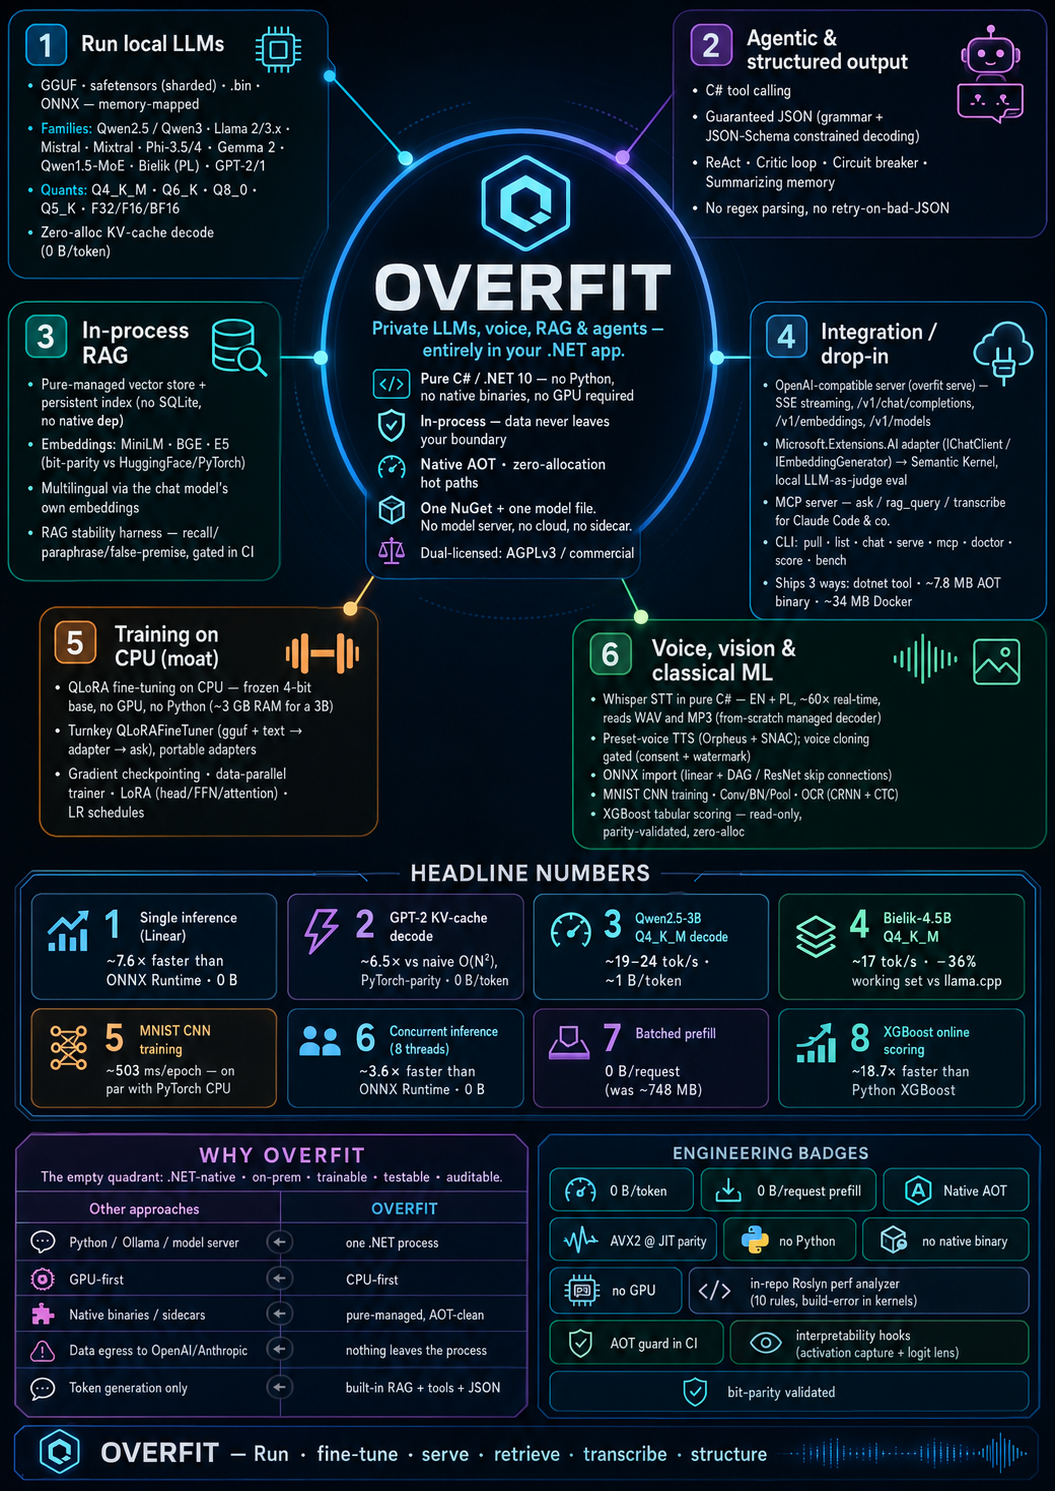
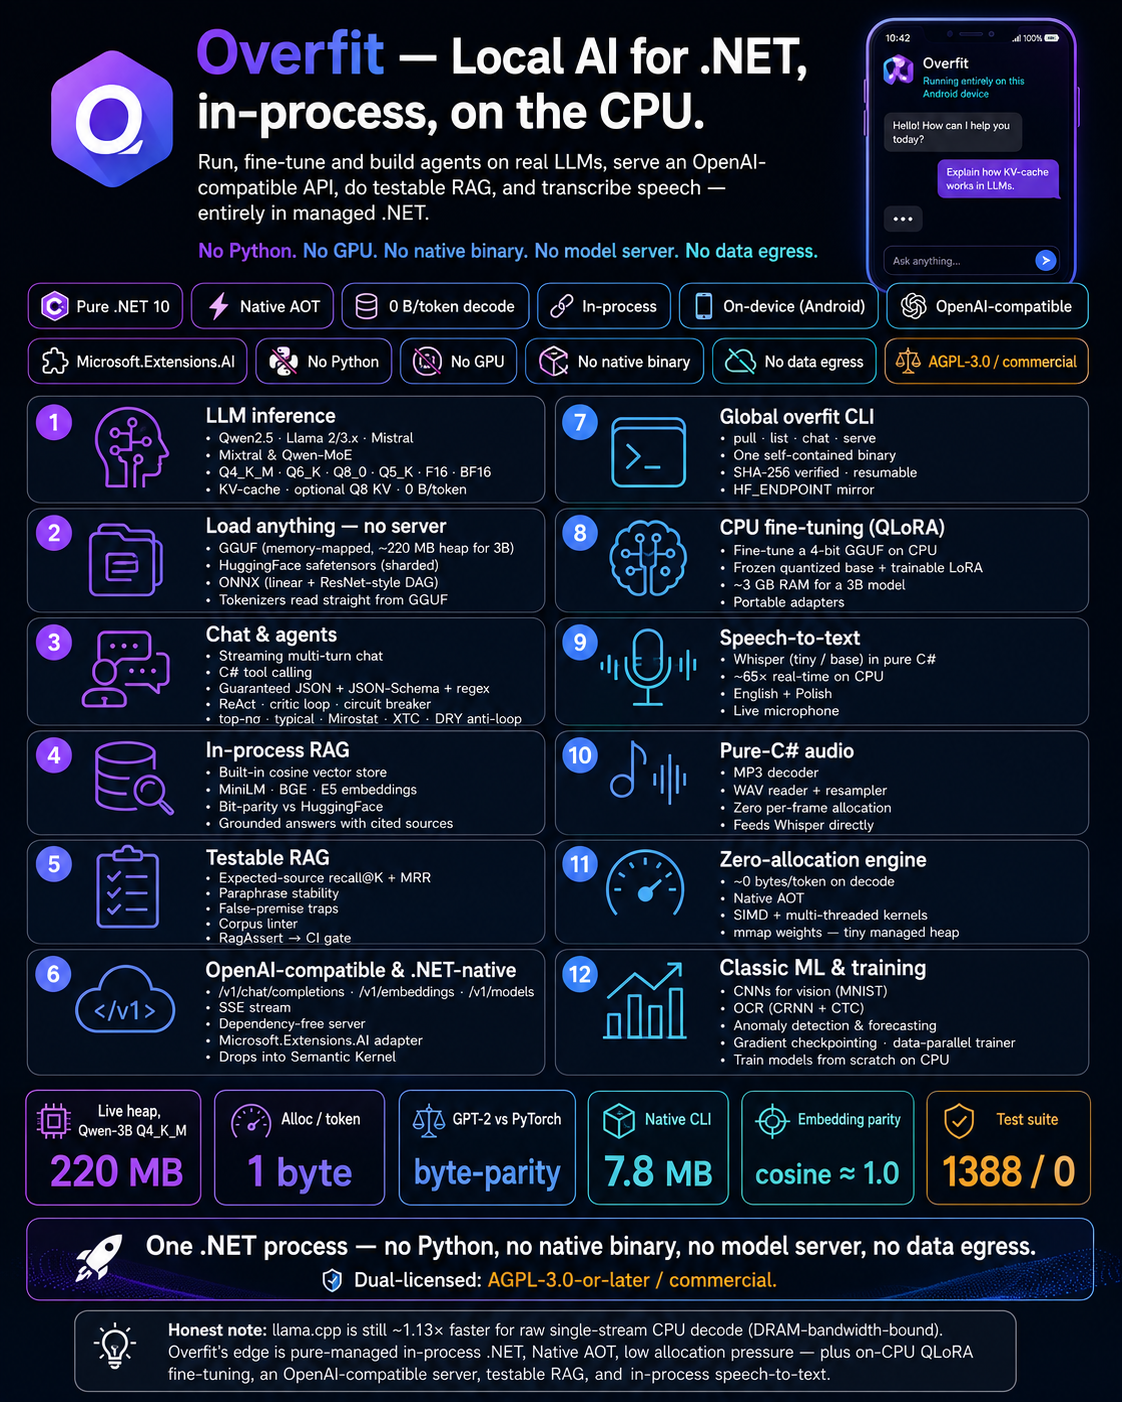
skill

diff --git a/Sources/Main/Data/Contracts/TrainingDataReport.cs b/Sources/Main/Data/Contracts/TrainingDataReport.cs
@@ -56,7 +56,7 @@ namespace DevOnBike.Overfit.Data.Contracts
             get
             {
                 var count = 0;
-                
+
                 foreach (var f in FeatureReports)
                 {
                     if (f.IsConstant)
@@ -64,7 +64,7 @@ namespace DevOnBike.Overfit.Data.Contracts
                         count++;
                     }
                 }
-                
+
                 return count;
             }
         }
@@ -75,12 +75,12 @@ namespace DevOnBike.Overfit.Data.Contracts
             get
             {
                 var total = 0;
-                
+
                 foreach (var f in FeatureReports)
                 {
                     total += f.NonFiniteCount;
                 }
-                
+
                 return total;
             }
         }

diff --git a/CHANGELOG.md b/CHANGELOG.md
@@ -14,9 +14,33 @@ The format is based on [Keep a Changelog](https://keepachangelog.com/en/1.1.0/),
 
 Pre-release suffixes (e.g. `10.1.0-beta.1`) are used for surface changes that need real-world validation before the public release. Pre-releases are pushed to NuGet with the `-beta`, `-rc`, or `-preview` SemVer suffix.
 
-## [Unreleased]
+## [10.0.29] - 2026-07-05
 
-_(nothing yet)_
+_The `frodo` branch: an on-device Android chat app, an advanced sampler suite, offline prefill acceleration, a local skill-eval harness, and CI-guard hardening._
+
+### Added
+
+- **OverThink — an on-device Android chat app** (`Demo/OverfitChatApp`). A native .NET-for-Android build runs a GGUF model **entirely on the phone**: streaming tokens, an animated mesh-gradient UI, a GGUF file-picker, a ⚙ "Response style" preset dialog (Precise / Balanced / Creative, each with the DRY anti-loop on), and a 30 s idle model-unload. Fully offline — nothing leaves the device. ~3.8 tok/s for a 0.5B Q4_K on a mid-range phone. The on-device decode work is documented as an honest negative in `Demo/OverfitChatApp/README.md`: Mono's ARM runtime has no SIMD intrinsics, so decode is **dequant-bound, not dot-bound** — a correct (QEMU + self-test-validated) NEON SDOT kernel does *not* move tok/s, AOT buys ~20%, and the remaining gap to llama.cpp is the managed-mobile tax, not a missing kernel.
+- **Full sampler suite** (`SamplingPipeline`, composable/opt-in): **top-nσ** (scale-adaptive `max − n·σ` logit truncation), **locally-typical** (entropy-matched surprise), **XTC** (exclude-top-choices), **Mirostat v1/v2** (stateful μ feedback), and **DRY** (Don't-Repeat-Yourself, Z-algorithm over the recent window). `top-nσ` and `locally-typical` are also on the zero-alloc `TokenSampler` / `SamplingOptions` hot path (`WithTopNSigma`, `WithTypicalP`) and the `overfit chat` CLI (`--top-n-sigma`, `--typical-p`). **DRY is wired into the decode engine** (`CachedLlamaSession`) with a rolling generated-token history + reusable Z-scratch (zero per-token allocation): it penalises would-be verbatim repetitions on the logits **before** sampling, so it breaks generation loops **even under greedy decode** — the single biggest output-quality lever for the small models that run on-device. Gates: `SamplerSuiteTests`, `TokenSamplerTruncatorTests`.
+- **`overfit repack`** — offline Q4_K weight-repack CLI (see Performance).
+- **Local skill-eval harness** (`Sources/Main/LanguageModels/Skills/Evaluation/`) — `SkillEvaluator` + `OverfitSkillRunner` run an agent skill/prompt **ON vs OFF** on a local model (deterministic greedy/seed, zero API cost), graded by a `CheckRegistry` of model-free predicates plus a schema-locked `RubricGrader`, and reported as pass-rate + ON/OFF **lift** + trigger accuracy — a reproducible prompt-regression gate. A first `SkillOptimizer` selects prompt variants on that score. Docs: `docs/skill-eval.md`.
+- **Adam checkpoint/restore** (`AdamCheckpointTests`) — moment (m/v) state save + resume for interrupted CPU fine-tunes.
+- **Whisper long-audio windowing** (`WhisperTrimWindowTests`) — trim-window handling past the 30 s encoder frame.
+
+### Performance
+
+- **Offline Q4_K prefill repack (`overfit repack`) → ~1.6× faster time-to-first-token at zero extra RAM.** A register-tiled Q4_K prefill GEMM (`Q4KGemvKernel.GemmTiled`, tinyBLAS-style `block_q4_Kx8`, AVX2/FMA) decodes each super-block once and reuses it across a tile of columns — measured **2.76× single-thread / 3.80× parallel** on the projection GEMM and **~1.61× end-to-end prefill** (Amdahl-capped: it accelerates the Q4_K FFN only; decode stays on the DRAM-bound weight-stationary path). `overfit repack <model.gguf>` writes a `<model>.repack` sidecar in the tiled layout; the loader memory-maps it and enables the tiled path **by default at zero heap cost**. The sidecar bytes are byte-identical to the runtime repack, so output is unchanged. ARM-safe (the tiled path is AVX2-gated; a sidecar on ARM transparently falls back). Gates: `Q4KTiledGemmParityTests`, `RepackedWeightsFileTests`, `RepackedSidecarEngineE2ETests`, `BatchedQuantProjectionTiledDispatchTests`.
+- **top-p / locally-typical sampling now partial-sorts.** The nucleus/typical set is tiny, so a size-k min-heap partial sort (O(V·log k)) replaces the full O(V·log V) vocabulary sort, with an exact full-sort fallback. On a peaked decode distribution this cut the sampler's share of a decode step from ~50–60% to a few percent (~20× on the sort itself). Exact-result and parity-pinned (`TopPTypicalPartialSortParityTests`); measured on the real model (`TypicalPRealModelDecodeTests`).
+
+### Fixed
+
+- **Native-AOT `aot-guard` CI job is green under BannedApiAnalyzers 5.6.0.** The AOT publish's blunt `TreatWarningsAsErrors=true` was promoting the project's own advisory analyzers — ~1000 `OVERFIT*` perf *suggestions* and `RS0030` on System.Text.Json's **generated** serializer context — to errors, none of them Native-AOT-safety signals. Exempted them centrally via `<WarningsNotAsErrors>` in `Directory.Build.props`, so only the framework `IL2026` / `IL3050` / `IL31xx` trim/AOT diagnostics stay fatal (which is the guard's actual purpose).
+- **`analyzer-guard` CI job is green.** An `.editorconfig` `[**/obj/**]` section had been placed mid-file, silently scoping every rule after it — CA2014, `IDISP*`, and **all** OVERFIT severities including `OVERFIT008 = error` — to `obj/` files only. `OVERFIT008` therefore fell back to a warning on real code, so the guard's deliberate-violation tripwire stopped failing the build. Moved the generated-code section to the end of `.editorconfig` so it wins RS0030 for `obj/` without hijacking the global `[*.cs]` block.
+
+### Changed
+
+- **`AotSmokeTest` moved from `Sources/` to `Tests/AotSmokeTest`** — it is a Native-AOT-publish CI harness, not shipped source. The xUnit `Tests` project excludes it from its compile glob; CI, the solution, and the AOT docs were updated to the new path.
+- Repo-root planning docs (`ideas.md`, `launch-copy.md`, `overfit_perf_decode_analysis.md`) moved under `docs/`.
 
 ## [10.0.25] - 2026-06-12
 

diff --git a/docs/release-infographic.md b/docs/release-infographic.md
@@ -12,13 +12,14 @@ scannable bullets), a proof-numbers strip, the footer line, and an image-generat
 
 Run, fine-tune and build agents on real LLMs, serve an OpenAI-compatible API, do testable RAG, and
 transcribe speech — entirely in managed .NET. No Python. No GPU. No native binary. No model server.
-No data egress.
+No data egress. The same engine runs a chat model **entirely on an Android phone** — everyone else
+reaches for a bigger GPU; Overfit goes the other way.
 
 ## Badges
 
-`Pure .NET 10` · `Native AOT` · `0 B/token decode` · `In-process` · `OpenAI-compatible` ·
-`Microsoft.Extensions.AI` · `No Python` · `No GPU` · `No native binary` · `No data egress` ·
-`AGPL-3.0 / commercial`
+`Pure .NET 10` · `Native AOT` · `0 B/token decode` · `In-process` · `On-device (Android)` ·
+`OpenAI-compatible` · `Microsoft.Extensions.AI` · `No Python` · `No GPU` · `No native binary` ·
+`No data egress` · `AGPL-3.0 / commercial`
 
 ---
 
@@ -41,6 +42,7 @@ No data egress.
 - C# tool calling (constrained decoding)
 - Guaranteed JSON + **JSON-Schema** & **regex** constrained output
 - ReAct loop · critic loop · circuit breaker · summarizing memory
+- Sampler suite: top-nσ · typical · Mirostat · XTC · **DRY anti-loop**
 
 **4 · In-process RAG**
 - Built-in cosine vector store, zero-dependency
@@ -100,7 +102,7 @@ No data egress.
 
 | Live heap, Qwen-3B Q4_K_M | Alloc / token | GPT-2 vs PyTorch | Native CLI | Embedding parity | Test suite |
 |:--:|:--:|:--:|:--:|:--:|:--:|
-| **220 MB** | **1 byte** | **byte-parity** | **7.8 MB** | **cosine ≈ 1.0** | **1139 / 0** |
+| **220 MB** | **1 byte** | **byte-parity** | **7.8 MB** | **cosine ≈ 1.0** | **1388 / 0** |
 
 ## Footer
 
@@ -123,7 +125,11 @@ Dual-licensed: AGPL-3.0-or-later / commercial.
 >
 > **Top hero band:** the wordmark "Overfit" with the tagline *"Local AI for .NET — run, fine-tune, serve
 > and talk to real LLMs entirely in-process, on the CPU."* Below it a row of small pill badges: `No Python`,
-> `No GPU`, `No native binary`, `No data egress`, `OpenAI-compatible`, `Native AOT`, `0 B/token`.
+> `No GPU`, `No native binary`, `No data egress`, `On-device (Android)`, `OpenAI-compatible`, `Native AOT`, `0 B/token`.
+>
+> **Optional right-side motif:** a modern smartphone rendered in the same violet-blue line style, showing a
+> minimal chat bubble mid-stream — the "an LLM running on your phone, no cloud" idea, kept small so the card
+> grid stays the hero.
 >
 > **Center:** a 4×3 grid of twelve equal cards, each with a simple line icon and a short title:
 > 1. *LLM inference* (chip) — "Qwen · Llama · Mistral · Mixtral · MoE",

diff --git a/docs/linked-in/linkedin-overthink.md b/docs/linked-in/linkedin-overthink.md
@@ -1,0 +1,37 @@
+# LinkedIn — OverThink ("we go the other way")
+
+Short, contrarian post centered on OverThink (an LLM running on your phone). Drop-in copy.
+
+---
+
+**No cloud. No GPU. No internet. Just a language model running on your phone.**
+
+The whole industry is racing in one direction: more GPUs, more VRAM, bigger clusters, everything in the cloud.
+
+We went the other way.
+
+**OverThink** is a chat app that runs a real language model **entirely on your Android phone**. No server. No cloud. No API key. Turn on airplane mode — it still answers. Nothing you type ever leaves the device.
+
+Under the hood it's **Overfit** — our language-model engine written in **pure C# / .NET**. No Python runtime, no native binary, no model server. It memory-maps a quantized GGUF model and decodes it on the CPU with near-zero allocation — the same engine whether it's a datacenter or the phone in your pocket.
+
+Is it as fast as a datacenter GPU? Of course not — and that's not the point. The point is: your data stays yours, it works offline, and it costs nothing to run.
+
+The most private AI isn't the one with the best security policy. It's the one that physically *can't* phone home.
+
+Sometimes the interesting direction is the unfashionable one.
+
+#dotnet #csharp #ai #llm #ondevice #edgeai #privacy
+
+---
+
+## Notes / variants
+- **Viral title options** (swap the bold headline for any of these):
+  1. *No cloud. No GPU. No internet. Just a language model running on your phone.* ← current
+  2. *Everyone's buying bigger GPUs. I put a real AI on a phone — then turned the internet off.*
+  3. *I asked an AI a question with my phone in airplane mode. It answered.*
+  4. *The whole industry is renting GPUs. My AI runs on a phone with the Wi-Fi off.*
+  5. *The most private AI is the one that physically can't phone home. So I built it.*
+  6. *They said you need a datacenter to run AI. I fit one in my pocket.*
+- **Proof line to add if you want numbers:** "~0.5B params, 4-bit, streaming tokens, fully offline — pure managed .NET on the CPU."
+- **CTA options:** link the GitHub repo / a 10-second screen-recording of airplane-mode chat (the strongest asset — the plane icon in the status bar is the whole argument).
+- Pair with the `store/linkedin/02-pitch.png` About-dialog screenshot, or a short clip of tokens streaming with Wi-Fi off.

diff --git a/README.md b/README.md
@@ -577,7 +577,7 @@ for that.
 
 - **Inference** — GGUF (Q4_K_M / Q6_K / Q8_0 / Q5_0 / Q5_K / F32 / F16 / BF16, memory-mapped); Qwen2.5, Llama-2/3.x, Mistral, Mixtral & Qwen-MoE; GPT-2 / GPT-1 (byte-parity vs PyTorch). KV-cache + optional Q8 KV; ~220 MB heap / 1 B-per-token for a 3B model.
 - **Loaders** — GGUF, HuggingFace safetensors (sharded), Overfit `.bin`, ONNX (linear + DAG). 100% Python-free; tokenizers read straight from the GGUF.
-- **Agentic & structured output** — tool calling, guaranteed JSON, **JSON-Schema & regex constrained decoding**, ReAct / critic / circuit-breaker / summarizing memory, composable sampling.
+- **Agentic & structured output** — tool calling, guaranteed JSON, **JSON-Schema & regex constrained decoding**, ReAct / critic / circuit-breaker / summarizing memory, and a full **sampler suite** (temperature · top-k/p · min-p · top-nσ · locally-typical · Mirostat v1/v2 · XTC) plus a **DRY anti-repetition** guard that breaks verbatim generation loops even under greedy decode.
 - **RAG** — in-process vector store; MiniLM / BGE / E5 embeddings (bit-parity vs HuggingFace); multilingual via the chat model's own embeddings; **RAG Stability Harness** (recall / paraphrase / false-premise / lint, gated in CI).
 - **Integration** — **OpenAI-compatible server** (`/v1/chat/completions` + SSE, `/v1/embeddings`, `/v1/models`); **MCP server** (`overfit mcp` — local `ask` / `rag_query` / `transcribe` tools for Claude Code & co., [`docs/mcp.md`](docs/mcp.md)); **Microsoft.Extensions.AI** adapter; **`overfit` CLI** (pull / list / chat / serve / mcp) shipped three ways — `dotnet tool install -g DevOnBike.Overfit.Cli`, a Native-AOT binary, and a ~34 MB Docker image ([`docs/docker.md`](docs/docker.md)); ASP.NET starter template.
 - **Training** — **QLoRA CPU fine-tuning** (frozen Q4_K base incl. FFN + per-head attention), gradient checkpointing, data-parallel trainer, Conv/BatchNorm/LSTM, CRNN + CTC (OCR), LR schedules.
